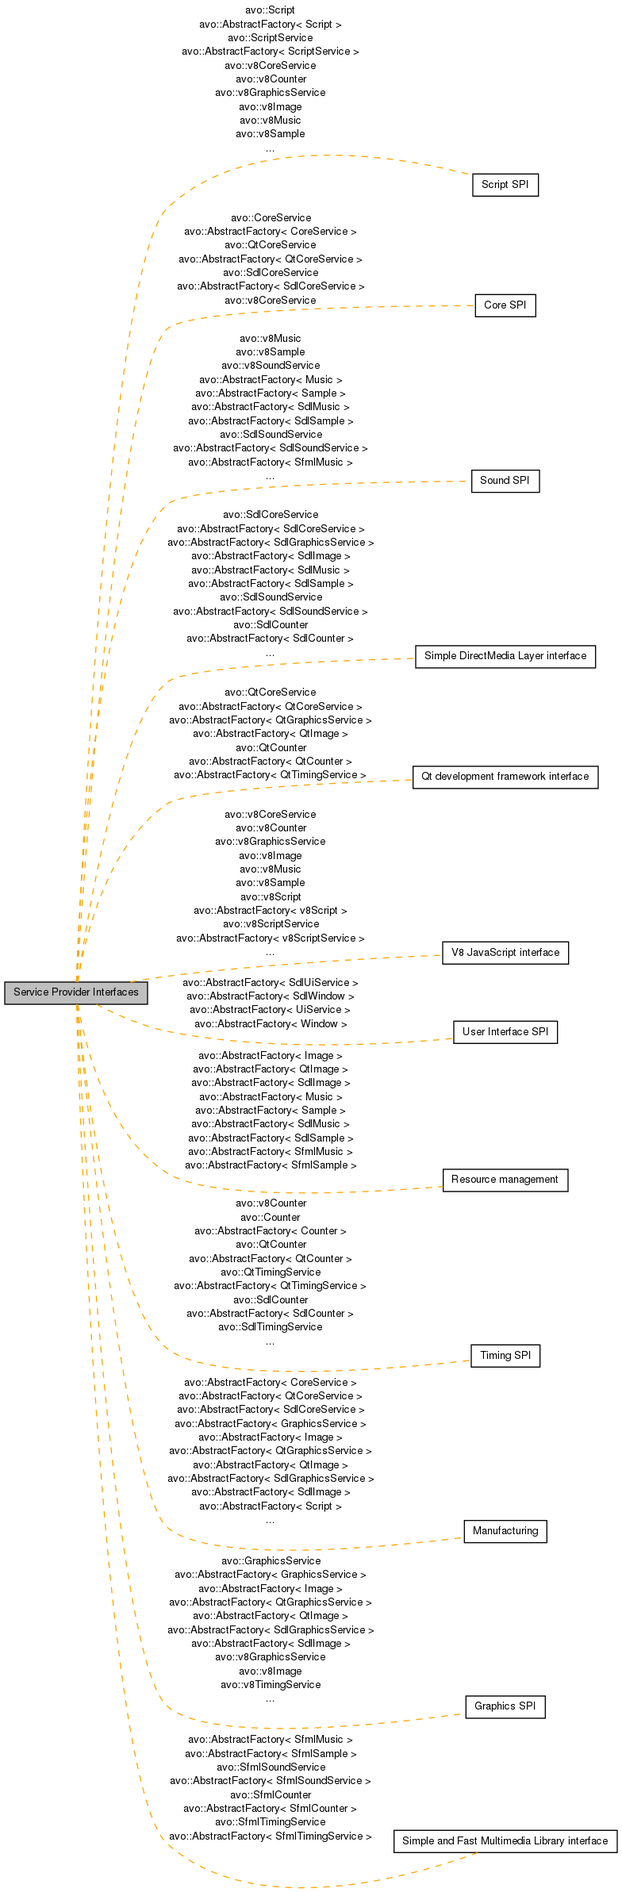
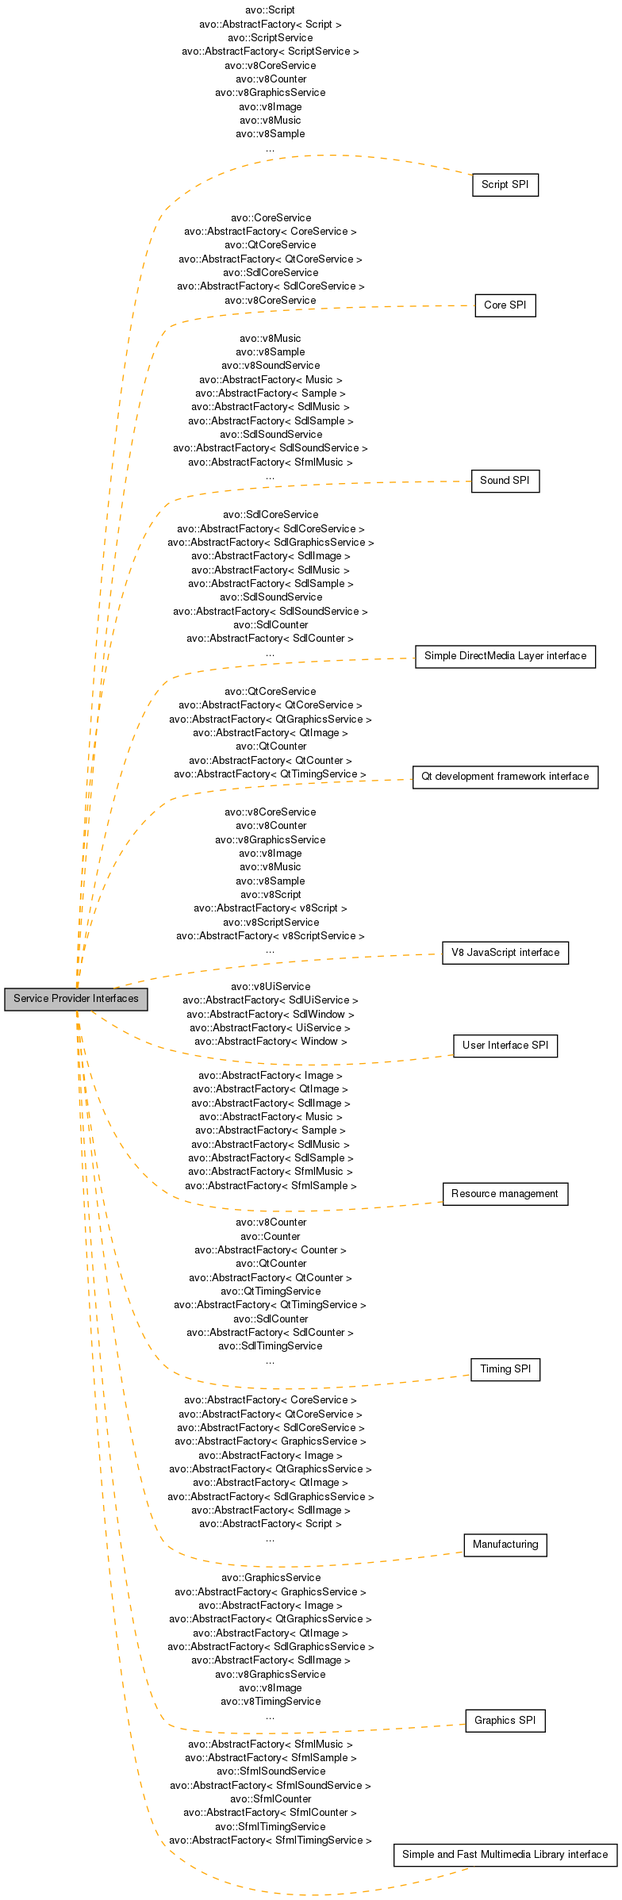
raw:03ca7a8fd6d0dd6b76e23c6d87380a5896ecc0d6

diff --git a/engine/core/State/Initial.coffee.html b/engine/core/State/Initial.coffee.html
@@ -33,21 +33,21 @@ as initialize requires. Elegant!</p>
 stuff. We'll wait so that there isn't a black screen sitting
 there while everything loads.
 Instantiate a Window to receive render events.</p>
-</td><td class="code"><div class="highlight"><pre>      <span class="nb">window</span> <span class="o">=</span> <span class="k">new</span> <span class="nx">avo</span><span class="p">.</span><span class="nx">uiService</span><span class="p">.</span><span class="nx">newWindow</span><span class="p">()</span>
-      <span class="nb">window</span><span class="p">.</span><span class="nx">set</span> <span class="p">[</span><span class="mi">320</span><span class="p">,</span> <span class="mi">240</span><span class="p">]</span>
-      <span class="nb">window</span><span class="p">.</span><span class="nx">setWindowTitle</span> <span class="s1">&#39;Avocado - Fun Should Be Free&#39;</span>
+</td><td class="code"><div class="highlight"><pre>      <span class="nv">avo.window = </span><span class="k">new</span> <span class="nx">avo</span><span class="p">.</span><span class="nx">uiService</span><span class="p">.</span><span class="nx">newWindow</span><span class="p">()</span>
+      <span class="nx">avo</span><span class="p">.</span><span class="nb">window</span><span class="p">.</span><span class="nx">set</span> <span class="p">[</span><span class="mi">320</span><span class="p">,</span> <span class="mi">240</span><span class="p">]</span>
+      <span class="nx">avo</span><span class="p">.</span><span class="nb">window</span><span class="p">.</span><span class="nx">setWindowTitle</span> <span class="s1">&#39;Avocado - Fun Should Be Free&#39;</span>
       </pre></div></td></tr><tr id="section-10"><td class="docs"><div class="pilwrap"><a href="#section-10" class="pilcrow">&#182;</a></div><p>avo.main lets us know when it has something to render, so we'll
 put it on our window.</p>
-</td><td class="code"><div class="highlight"><pre>      <span class="nx">avo</span><span class="p">.</span><span class="nx">main</span><span class="p">.</span><span class="kc">on</span> <span class="s1">&#39;render&#39;</span><span class="p">,</span> <span class="nf">(buffer) -&gt;</span> <span class="nb">window</span><span class="p">.</span><span class="nx">render</span> <span class="nx">buffer</span>
-      </pre></div></td></tr><tr id="section-11"><td class="docs"><div class="pilwrap"><a href="#section-11" class="pilcrow">&#182;</a></div><p>Catch the quit event from Input (window close event).</p>
-</td><td class="code"><div class="highlight"><pre>      <span class="nb">window</span><span class="p">.</span><span class="kc">on</span> <span class="s1">&#39;quit.Engine&#39;</span><span class="p">,</span> <span class="o">=&gt;</span> <span class="nx">avo</span><span class="p">.</span><span class="nx">main</span><span class="p">.</span><span class="nx">quit</span><span class="p">()</span>
+</td><td class="code"><div class="highlight"><pre>      <span class="nx">avo</span><span class="p">.</span><span class="nx">main</span><span class="p">.</span><span class="kc">on</span> <span class="s1">&#39;render&#39;</span><span class="p">,</span> <span class="nf">(buffer) -&gt;</span> <span class="nx">avo</span><span class="p">.</span><span class="nb">window</span><span class="p">.</span><span class="nx">render</span> <span class="nx">buffer</span>
+      </pre></div></td></tr><tr id="section-11"><td class="docs"><div class="pilwrap"><a href="#section-11" class="pilcrow">&#182;</a></div><p>Catch the quit event (window close event).</p>
+</td><td class="code"><div class="highlight"><pre>      <span class="nx">avo</span><span class="p">.</span><span class="nb">window</span><span class="p">.</span><span class="kc">on</span> <span class="s1">&#39;quit.Engine&#39;</span><span class="p">,</span> <span class="o">=&gt;</span> <span class="nx">avo</span><span class="p">.</span><span class="nx">main</span><span class="p">.</span><span class="nx">quit</span><span class="p">()</span>
       </pre></div></td></tr><tr id="section-12"><td class="docs"><div class="pilwrap"><a href="#section-12" class="pilcrow">&#182;</a></div><p>Allow dragging the avocado around with the left mouse button. Keep
 track of where the avocado was when we started dragging.</p>
 </td><td class="code"><div class="highlight"><pre>      <span class="vi">@dragStartAvocadoLocation = </span><span class="p">[]</span>
-      <span class="nb">window</span><span class="p">.</span><span class="kc">on</span> <span class="s1">&#39;mouseButtonDown.InitialState&#39;</span><span class="p">,</span> <span class="p">({</span><span class="nx">button</span><span class="p">})</span> <span class="o">=&gt;</span>
+      <span class="nx">avo</span><span class="p">.</span><span class="nb">window</span><span class="p">.</span><span class="kc">on</span> <span class="s1">&#39;mouseButtonDown.InitialState&#39;</span><span class="p">,</span> <span class="p">({</span><span class="nx">button</span><span class="p">})</span> <span class="o">=&gt;</span>
         <span class="k">return</span> <span class="nx">unless</span> <span class="nx">button</span> <span class="o">is</span> <span class="nx">avo</span><span class="p">.</span><span class="nx">Window</span><span class="p">.</span><span class="nx">LeftButton</span>
         <span class="vi">@dragStartAvocadoLocation = </span><span class="p">[</span><span class="nx">@x</span><span class="p">,</span> <span class="nx">@y</span><span class="p">]</span>
-      <span class="nb">window</span><span class="p">.</span><span class="kc">on</span> <span class="s1">&#39;mouseDrag.InitialState&#39;</span><span class="p">,</span> <span class="p">({</span><span class="nx">position</span><span class="p">,</span> <span class="nx">button</span><span class="p">,</span> <span class="nx">relative</span><span class="p">})</span> <span class="o">=&gt;</span>
+      <span class="nx">avo</span><span class="p">.</span><span class="nb">window</span><span class="p">.</span><span class="kc">on</span> <span class="s1">&#39;mouseDrag.InitialState&#39;</span><span class="p">,</span> <span class="p">({</span><span class="nx">position</span><span class="p">,</span> <span class="nx">button</span><span class="p">,</span> <span class="nx">relative</span><span class="p">})</span> <span class="o">=&gt;</span>
         <span class="k">return</span> <span class="nx">unless</span> <span class="nx">button</span> <span class="o">is</span> <span class="nx">avo</span><span class="p">.</span><span class="nx">Window</span><span class="p">.</span><span class="nx">LeftButton</span>
         <span class="p">[</span><span class="nx">@x</span><span class="p">,</span> <span class="nx">@y</span><span class="p">]</span> <span class="o">=</span> <span class="nx">avo</span><span class="p">.</span><span class="nx">Vector</span><span class="p">.</span><span class="nx">add</span> <span class="nx">@dragStartAvocadoLocation</span><span class="p">,</span> <span class="nx">relative</span>
         </pre></div></td></tr><tr id="section-13"><td class="docs"><div class="pilwrap"><a href="#section-13" class="pilcrow">&#182;</a></div><p>Called repeatedly while this state is loaded. You can do things like
@@ -68,7 +68,7 @@ your pretty pictures here!</p>
     </pre></div></td></tr><tr id="section-18"><td class="docs"><div class="pilwrap"><a href="#section-18" class="pilcrow">&#182;</a></div><p>Called when another state is loaded. This gives you a chance to clean
 up resources and event handlers.</p>
 </td><td class="code"><div class="highlight"><pre>  <span class="nv">leave: </span><span class="nf">(nextStateName) -&gt;</span>
-    </pre></div></td></tr><tr id="section-19"><td class="docs"><div class="pilwrap"><a href="#section-19" class="pilcrow">&#182;</a></div><p>Remove our user input event handler(s).</p>
-</td><td class="code"><div class="highlight"><pre>    <span class="nx">avo</span><span class="p">.</span><span class="nx">Input</span><span class="p">.</span><span class="kc">off</span> <span class="s1">&#39;.InitialState&#39;</span>
+    </pre></div></td></tr><tr id="section-19"><td class="docs"><div class="pilwrap"><a href="#section-19" class="pilcrow">&#182;</a></div><p>Remove our event handler(s).</p>
+</td><td class="code"><div class="highlight"><pre>    <span class="nx">avo</span><span class="p">.</span><span class="nb">window</span><span class="p">.</span><span class="kc">off</span> <span class="s1">&#39;.InitialState&#39;</span>
 
 </pre></div></td></tr></tbody></table><div id="projectname"><a href="../../../index.html">Avocado</a></div></div></body></html>

diff --git a/cpp/group__SPI.html b/cpp/group__SPI.html
@@ -90,7 +90,7 @@ Collaboration diagram for Service Provider Interfaces:</div>
 <div class="dyncontent">
 <center><table><tr><td><img src="group__SPI.png" border="0" alt="" usemap="#group____SPI"/>
 <map name="group____SPI" id="group____SPI">
-<area shape="rect" id="node1" href="group__Script.html" title="The script SPI handles all communication between the native C++ engine and JavaScript." alt="" coords="596,219,679,248"/><area shape="rect" id="node2" href="group__Core.html" title="The core SPI handles framework initialization (e.g. SDL_Init()) and teardown (e.g. SDL_Quit()) as well as bridges to core engine functionality like filesystem access." alt="" coords="600,371,675,400"/><area shape="rect" id="node3" href="group__Sound.html" title="The sound SPI handles sound system initialization, as well as music and sample loading and playing..." alt="" coords="595,592,680,621"/><area shape="rect" id="node4" href="group__SDL.html" title="Avocado&#39;s interface to the [Simple DirectMedia Layer](http://www.libsdl.org/)." alt="" coords="524,813,751,843"/><area shape="rect" id="node5" href="group__Qt.html" title="Avocado&#39;s interface to the [Qt development framework](http://qt.digia.com/)." alt="" coords="521,965,753,995"/><area shape="rect" id="node7" href="group__V8.html" title="Avocado&#39;s interface to the [V8 JavaScript engine](http://code.google.com/p/v8/)." alt="" coords="559,1187,716,1216"/><area shape="rect" id="node8" href="group__Ui.html" title="The UI SPI handles user interface functionality such as windows and user input polling." alt="" coords="572,1287,703,1316"/><area shape="rect" id="node9" href="group__Resources.html" title="Resources are loaded from the resource root and are managed using reference counting." alt="" coords="559,1473,716,1503"/><area shape="rect" id="node10" href="group__Timing.html" title="The timing SPI handles measuring time." alt="" coords="595,1695,680,1724"/><area shape="rect" id="node11" href="group__Manufacturing.html" title="Manufacturing functionality handles abstract factory &#160;definition and managing concrete factory instan..." alt="" coords="585,1916,689,1945"/><area shape="rect" id="node12" href="group__Graphics.html" title="The graphics SPI handles window and graphics system initialization, and rendering." alt="" coords="588,2137,687,2167"/><area shape="rect" id="node13" href="group__SFML.html" title="Avocado&#39;s interface to the [Simple and Fast Multimedia Library](http://www.sfml&#45;dev.org)." alt="" coords="497,2307,777,2336"/></map>
+<area shape="rect" id="node1" href="group__Script.html" title="The script SPI handles all communication between the native C++ engine and JavaScript." alt="" coords="596,219,679,248"/><area shape="rect" id="node2" href="group__Core.html" title="The core SPI handles framework initialization (e.g. SDL_Init()) and teardown (e.g. SDL_Quit()) as well as bridges to core engine functionality like filesystem access." alt="" coords="600,371,675,400"/><area shape="rect" id="node3" href="group__Sound.html" title="The sound SPI handles sound system initialization, as well as music and sample loading and playing..." alt="" coords="595,592,680,621"/><area shape="rect" id="node4" href="group__SDL.html" title="Avocado&#39;s interface to the [Simple DirectMedia Layer](http://www.libsdl.org/)." alt="" coords="524,813,751,843"/><area shape="rect" id="node5" href="group__Qt.html" title="Avocado&#39;s interface to the [Qt development framework](http://qt.digia.com/)." alt="" coords="521,965,753,995"/><area shape="rect" id="node7" href="group__V8.html" title="Avocado&#39;s interface to the [V8 JavaScript engine](http://code.google.com/p/v8/)." alt="" coords="559,1187,716,1216"/><area shape="rect" id="node8" href="group__Ui.html" title="The UI SPI handles user interface functionality such as windows and user event polling." alt="" coords="572,1304,703,1333"/><area shape="rect" id="node9" href="group__Resources.html" title="Resources are loaded from the resource root and are managed using reference counting." alt="" coords="559,1491,716,1520"/><area shape="rect" id="node10" href="group__Timing.html" title="The timing SPI handles measuring time." alt="" coords="595,1712,680,1741"/><area shape="rect" id="node11" href="group__Manufacturing.html" title="Manufacturing functionality handles abstract factory &#160;definition and managing concrete factory instan..." alt="" coords="585,1933,689,1963"/><area shape="rect" id="node12" href="group__Graphics.html" title="The graphics SPI handles window and graphics system initialization, and rendering." alt="" coords="588,2155,687,2184"/><area shape="rect" id="node13" href="group__SFML.html" title="Avocado&#39;s interface to the [Simple and Fast Multimedia Library](http://www.sfml&#45;dev.org)." alt="" coords="497,2324,777,2353"/></map>
 </td></tr></table></center>
 </div>
 <table class="memberdecls">

diff --git a/cpp/group__Manufacturing.html b/cpp/group__Manufacturing.html
@@ -89,7 +89,7 @@ Collaboration diagram for Manufacturing:</div>
 <div class="dyncontent">
 <center><table><tr><td><img src="group__Manufacturing.png" border="0" alt="" usemap="#group____Manufacturing"/>
 <map name="group____Manufacturing" id="group____Manufacturing">
-<area shape="rect" id="node1" href="group__Script.html" title="The script SPI handles all communication between the native C++ engine and JavaScript." alt="" coords="519,97,601,127"/><area shape="rect" id="node2" href="group__Core.html" title="The core SPI handles framework initialization (e.g. SDL_Init()) and teardown (e.g. SDL_Quit()) as well as bridges to core engine functionality like filesystem access." alt="" coords="523,180,597,209"/><area shape="rect" id="node3" href="group__Sound.html" title="The sound SPI handles sound system initialization, as well as music and sample loading and playing..." alt="" coords="517,367,603,396"/><area shape="rect" id="node4" href="group__SDL.html" title="Avocado&#39;s interface to the [Simple DirectMedia Layer](http://www.libsdl.org/)." alt="" coords="447,588,673,617"/><area shape="rect" id="node5" href="group__Qt.html" title="Avocado&#39;s interface to the [Qt development framework](http://qt.digia.com/)." alt="" coords="444,705,676,735"/><area shape="rect" id="node6" href="group__SPI.html" title="Simply put, SPI implementations (SPIIs) provide an way for the engine to do interesting and dynamic t..." alt="" coords="471,927,649,956"/><area shape="rect" id="node7" href="group__V8.html" title="Avocado&#39;s interface to the [V8 JavaScript engine](http://code.google.com/p/v8/)." alt="" coords="481,992,639,1021"/><area shape="rect" id="node8" href="group__Ui.html" title="The UI SPI handles user interface functionality such as windows and user input polling." alt="" coords="495,1092,625,1121"/><area shape="rect" id="node9" href="group__Resources.html" title="Resources are loaded from the resource root and are managed using reference counting." alt="" coords="481,1279,639,1308"/><area shape="rect" id="node10" href="group__Timing.html" title="The timing SPI handles measuring time." alt="" coords="517,1448,603,1477"/><area shape="rect" id="node12" href="group__Graphics.html" title="The graphics SPI handles window and graphics system initialization, and rendering." alt="" coords="511,1583,609,1612"/><area shape="rect" id="node13" href="group__SFML.html" title="Avocado&#39;s interface to the [Simple and Fast Multimedia Library](http://www.sfml&#45;dev.org)." alt="" coords="420,1700,700,1729"/></map>
+<area shape="rect" id="node1" href="group__Script.html" title="The script SPI handles all communication between the native C++ engine and JavaScript." alt="" coords="519,97,601,127"/><area shape="rect" id="node2" href="group__Core.html" title="The core SPI handles framework initialization (e.g. SDL_Init()) and teardown (e.g. SDL_Quit()) as well as bridges to core engine functionality like filesystem access." alt="" coords="523,180,597,209"/><area shape="rect" id="node3" href="group__Sound.html" title="The sound SPI handles sound system initialization, as well as music and sample loading and playing..." alt="" coords="517,367,603,396"/><area shape="rect" id="node4" href="group__SDL.html" title="Avocado&#39;s interface to the [Simple DirectMedia Layer](http://www.libsdl.org/)." alt="" coords="447,588,673,617"/><area shape="rect" id="node5" href="group__Qt.html" title="Avocado&#39;s interface to the [Qt development framework](http://qt.digia.com/)." alt="" coords="444,705,676,735"/><area shape="rect" id="node6" href="group__SPI.html" title="Simply put, SPI implementations (SPIIs) provide an way for the engine to do interesting and dynamic t..." alt="" coords="471,927,649,956"/><area shape="rect" id="node7" href="group__V8.html" title="Avocado&#39;s interface to the [V8 JavaScript engine](http://code.google.com/p/v8/)." alt="" coords="481,992,639,1021"/><area shape="rect" id="node8" href="group__Ui.html" title="The UI SPI handles user interface functionality such as windows and user event polling." alt="" coords="495,1092,625,1121"/><area shape="rect" id="node9" href="group__Resources.html" title="Resources are loaded from the resource root and are managed using reference counting." alt="" coords="481,1279,639,1308"/><area shape="rect" id="node10" href="group__Timing.html" title="The timing SPI handles measuring time." alt="" coords="517,1448,603,1477"/><area shape="rect" id="node12" href="group__Graphics.html" title="The graphics SPI handles window and graphics system initialization, and rendering." alt="" coords="511,1583,609,1612"/><area shape="rect" id="node13" href="group__SFML.html" title="Avocado&#39;s interface to the [Simple and Fast Multimedia Library](http://www.sfml&#45;dev.org)." alt="" coords="420,1700,700,1729"/></map>
 </td></tr></table></center>
 </div>
 <table class="memberdecls">

diff --git a/cpp/group__Ui.html b/cpp/group__Ui.html
@@ -82,19 +82,20 @@ var searchBox = new SearchBox("searchBox", "search",false,'Search');
 </div><!--header-->
 <div class="contents">
 
-<p>The UI SPI handles user interface functionality such as windows and user input polling.  
+<p>The UI SPI handles user interface functionality such as windows and user event polling.  
 <a href="#details">More...</a></p>
 <div class="dynheader">
 Collaboration diagram for User Interface SPI:</div>
 <div class="dyncontent">
 <center><table><tr><td><img src="group__Ui.png" border="0" alt="" usemap="#group____Ui"/>
 <map name="group____Ui" id="group____Ui">
-<area shape="rect" id="node1" href="group__SDL.html" title="Avocado&#39;s interface to the [Simple DirectMedia Layer](http://www.libsdl.org/)." alt="" coords="408,67,635,96"/><area shape="rect" id="node2" href="group__SPI.html" title="Simply put, SPI implementations (SPIIs) provide an way for the engine to do interesting and dynamic t..." alt="" coords="432,167,611,196"/><area shape="rect" id="node4" href="group__Manufacturing.html" title="Manufacturing functionality handles abstract factory &#160;definition and managing concrete factory instan..." alt="" coords="469,267,573,296"/></map>
+<area shape="rect" id="node1" href="group__Script.html" title="The script SPI handles all communication between the native C++ engine and JavaScript." alt="" coords="480,28,563,57"/><area shape="rect" id="node2" href="group__SDL.html" title="Avocado&#39;s interface to the [Simple DirectMedia Layer](http://www.libsdl.org/)." alt="" coords="408,128,635,157"/><area shape="rect" id="node3" href="group__SPI.html" title="Simply put, SPI implementations (SPIIs) provide an way for the engine to do interesting and dynamic t..." alt="" coords="432,244,611,273"/><area shape="rect" id="node4" href="group__V8.html" title="Avocado&#39;s interface to the [V8 JavaScript engine](http://code.google.com/p/v8/)." alt="" coords="443,297,600,327"/><area shape="rect" id="node6" href="group__Manufacturing.html" title="Manufacturing functionality handles abstract factory &#160;definition and managing concrete factory instan..." alt="" coords="469,396,573,425"/></map>
 </td></tr></table></center>
 </div>
 <table class="memberdecls">
 <tr><td colspan="2"><h2><a name="nested-classes"></a>
 Classes</h2></td></tr>
+<tr><td class="memItemLeft" align="right" valign="top">class &#160;</td><td class="memItemRight" valign="bottom"><a class="el" href="classavo_1_1v8UiService.html">avo::v8UiService</a></td></tr>
 <tr><td class="memItemLeft" align="right" valign="top">class &#160;</td><td class="memItemRight" valign="bottom"><a class="el" href="classavo_1_1SdlUiService.html">avo::SdlUiService</a></td></tr>
 <tr><td class="memItemLeft" align="right" valign="top">class &#160;</td><td class="memItemRight" valign="bottom"><a class="el" href="classavo_1_1AbstractFactory_3_01SdlUiService_01_4.html">avo::AbstractFactory&lt; SdlUiService &gt;</a></td></tr>
 <tr><td class="memItemLeft" align="right" valign="top">class &#160;</td><td class="memItemRight" valign="bottom"><a class="el" href="classavo_1_1SdlWindow.html">avo::SdlWindow</a></td></tr>
@@ -105,7 +106,7 @@ Classes</h2></td></tr>
 <tr><td class="memItemLeft" align="right" valign="top">class &#160;</td><td class="memItemRight" valign="bottom"><a class="el" href="classavo_1_1AbstractFactory_3_01Window_01_4.html">avo::AbstractFactory&lt; Window &gt;</a></td></tr>
 </table>
 <hr/><a name="details" id="details"></a><h2>Detailed Description</h2>
-<p>The UI SPI handles user interface functionality such as windows and user input polling. </p>
+<p>The UI SPI handles user interface functionality such as windows and user event polling. </p>
 </div><!-- contents -->
 <!-- window showing the filter options -->
 <div id="MSearchSelectWindow"

diff --git a/cpp/group__SDL.html b/cpp/group__SDL.html
@@ -89,7 +89,7 @@ Collaboration diagram for Simple DirectMedia Layer interface:</div>
 <div class="dyncontent">
 <center><table><tr><td><img src="group__SDL.png" border="0" alt="" usemap="#group____SDL"/>
 <map name="group____SDL" id="group____SDL">
-<area shape="rect" id="node1" href="group__Core.html" title="The core SPI handles framework initialization (e.g. SDL_Init()) and teardown (e.g. SDL_Quit()) as well as bridges to core engine functionality like filesystem access." alt="" coords="595,52,669,81"/><area shape="rect" id="node2" href="group__Sound.html" title="The sound SPI handles sound system initialization, as well as music and sample loading and playing..." alt="" coords="589,187,675,216"/><area shape="rect" id="node4" href="group__SPI.html" title="Simply put, SPI implementations (SPIIs) provide an way for the engine to do interesting and dynamic t..." alt="" coords="543,408,721,437"/><area shape="rect" id="node5" href="group__Ui.html" title="The UI SPI handles user interface functionality such as windows and user input polling." alt="" coords="567,508,697,537"/><area shape="rect" id="node6" href="group__Resources.html" title="Resources are loaded from the resource root and are managed using reference counting." alt="" coords="553,643,711,672"/><area shape="rect" id="node7" href="group__Timing.html" title="The timing SPI handles measuring time." alt="" coords="589,743,675,772"/><area shape="rect" id="node8" href="group__Manufacturing.html" title="Manufacturing functionality handles abstract factory &#160;definition and managing concrete factory instan..." alt="" coords="580,964,684,993"/><area shape="rect" id="node9" href="group__Graphics.html" title="The graphics SPI handles window and graphics system initialization, and rendering." alt="" coords="583,1064,681,1093"/></map>
+<area shape="rect" id="node1" href="group__Core.html" title="The core SPI handles framework initialization (e.g. SDL_Init()) and teardown (e.g. SDL_Quit()) as well as bridges to core engine functionality like filesystem access." alt="" coords="595,52,669,81"/><area shape="rect" id="node2" href="group__Sound.html" title="The sound SPI handles sound system initialization, as well as music and sample loading and playing..." alt="" coords="589,187,675,216"/><area shape="rect" id="node4" href="group__SPI.html" title="Simply put, SPI implementations (SPIIs) provide an way for the engine to do interesting and dynamic t..." alt="" coords="543,408,721,437"/><area shape="rect" id="node5" href="group__Ui.html" title="The UI SPI handles user interface functionality such as windows and user event polling." alt="" coords="567,508,697,537"/><area shape="rect" id="node6" href="group__Resources.html" title="Resources are loaded from the resource root and are managed using reference counting." alt="" coords="553,643,711,672"/><area shape="rect" id="node7" href="group__Timing.html" title="The timing SPI handles measuring time." alt="" coords="589,743,675,772"/><area shape="rect" id="node8" href="group__Manufacturing.html" title="Manufacturing functionality handles abstract factory &#160;definition and managing concrete factory instan..." alt="" coords="580,964,684,993"/><area shape="rect" id="node9" href="group__Graphics.html" title="The graphics SPI handles window and graphics system initialization, and rendering." alt="" coords="583,1064,681,1093"/></map>
 </td></tr></table></center>
 </div>
 <table class="memberdecls">

diff --git a/cpp/group__V8.html b/cpp/group__V8.html
@@ -90,7 +90,7 @@ Collaboration diagram for V8 JavaScript interface:</div>
 <div class="dyncontent">
 <center><table><tr><td><img src="group__V8.png" border="0" alt="" usemap="#group____V8"/>
 <map name="group____V8" id="group____V8">
-<area shape="rect" id="node1" href="group__Script.html" title="The script SPI handles all communication between the native C++ engine and JavaScript." alt="" coords="503,215,585,244"/><area shape="rect" id="node2" href="group__Core.html" title="The core SPI handles framework initialization (e.g. SDL_Init()) and teardown (e.g. SDL_Quit()) as well as bridges to core engine functionality like filesystem access." alt="" coords="507,289,581,319"/><area shape="rect" id="node3" href="group__Sound.html" title="The sound SPI handles sound system initialization, as well as music and sample loading and playing..." alt="" coords="501,372,587,401"/><area shape="rect" id="node4" href="group__SPI.html" title="Simply put, SPI implementations (SPIIs) provide an way for the engine to do interesting and dynamic t..." alt="" coords="455,591,633,620"/><area shape="rect" id="node6" href="group__Timing.html" title="The timing SPI handles measuring time." alt="" coords="501,644,587,673"/><area shape="rect" id="node7" href="group__Manufacturing.html" title="Manufacturing functionality handles abstract factory &#160;definition and managing concrete factory instan..." alt="" coords="492,707,596,736"/><area shape="rect" id="node8" href="group__Graphics.html" title="The graphics SPI handles window and graphics system initialization, and rendering." alt="" coords="495,807,593,836"/></map>
+<area shape="rect" id="node1" href="group__Script.html" title="The script SPI handles all communication between the native C++ engine and JavaScript." alt="" coords="503,217,585,247"/><area shape="rect" id="node2" href="group__Core.html" title="The core SPI handles framework initialization (e.g. SDL_Init()) and teardown (e.g. SDL_Quit()) as well as bridges to core engine functionality like filesystem access." alt="" coords="507,292,581,321"/><area shape="rect" id="node3" href="group__Sound.html" title="The sound SPI handles sound system initialization, as well as music and sample loading and playing..." alt="" coords="501,375,587,404"/><area shape="rect" id="node4" href="group__SPI.html" title="Simply put, SPI implementations (SPIIs) provide an way for the engine to do interesting and dynamic t..." alt="" coords="455,591,633,620"/><area shape="rect" id="node6" href="group__Ui.html" title="The UI SPI handles user interface functionality such as windows and user event polling." alt="" coords="479,644,609,673"/><area shape="rect" id="node7" href="group__Timing.html" title="The timing SPI handles measuring time." alt="" coords="501,697,587,727"/><area shape="rect" id="node8" href="group__Manufacturing.html" title="Manufacturing functionality handles abstract factory &#160;definition and managing concrete factory instan..." alt="" coords="492,757,596,787"/><area shape="rect" id="node9" href="group__Graphics.html" title="The graphics SPI handles window and graphics system initialization, and rendering." alt="" coords="495,857,593,887"/></map>
 </td></tr></table></center>
 </div>
 <table class="memberdecls">

diff --git a/cpp/group__Script.html b/cpp/group__Script.html
@@ -92,7 +92,7 @@ Collaboration diagram for Script SPI:</div>
 <div class="dyncontent">
 <center><table><tr><td><img src="group__Script.png" border="0" alt="" usemap="#group____Script"/>
 <map name="group____Script" id="group____Script">
-<area shape="rect" id="node2" href="group__Core.html" title="The core SPI handles framework initialization (e.g. SDL_Init()) and teardown (e.g. SDL_Quit()) as well as bridges to core engine functionality like filesystem access." alt="" coords="429,36,504,65"/><area shape="rect" id="node3" href="group__Sound.html" title="The sound SPI handles sound system initialization, as well as music and sample loading and playing..." alt="" coords="424,119,509,148"/><area shape="rect" id="node4" href="group__SPI.html" title="Simply put, SPI implementations (SPIIs) provide an way for the engine to do interesting and dynamic t..." alt="" coords="377,340,556,369"/><area shape="rect" id="node5" href="group__V8.html" title="Avocado&#39;s interface to the [V8 JavaScript engine](http://code.google.com/p/v8/)." alt="" coords="388,583,545,612"/><area shape="rect" id="node6" href="group__Timing.html" title="The timing SPI handles measuring time." alt="" coords="424,657,509,687"/><area shape="rect" id="node7" href="group__Manufacturing.html" title="Manufacturing functionality handles abstract factory &#160;definition and managing concrete factory instan..." alt="" coords="415,757,519,787"/><area shape="rect" id="node8" href="group__Graphics.html" title="The graphics SPI handles window and graphics system initialization, and rendering." alt="" coords="417,857,516,887"/></map>
+<area shape="rect" id="node2" href="group__Core.html" title="The core SPI handles framework initialization (e.g. SDL_Init()) and teardown (e.g. SDL_Quit()) as well as bridges to core engine functionality like filesystem access." alt="" coords="429,36,504,65"/><area shape="rect" id="node3" href="group__Sound.html" title="The sound SPI handles sound system initialization, as well as music and sample loading and playing..." alt="" coords="424,119,509,148"/><area shape="rect" id="node4" href="group__SPI.html" title="Simply put, SPI implementations (SPIIs) provide an way for the engine to do interesting and dynamic t..." alt="" coords="377,340,556,369"/><area shape="rect" id="node5" href="group__V8.html" title="Avocado&#39;s interface to the [V8 JavaScript engine](http://code.google.com/p/v8/)." alt="" coords="388,583,545,612"/><area shape="rect" id="node6" href="group__Ui.html" title="The UI SPI handles user interface functionality such as windows and user event polling." alt="" coords="401,655,532,684"/><area shape="rect" id="node7" href="group__Timing.html" title="The timing SPI handles measuring time." alt="" coords="424,708,509,737"/><area shape="rect" id="node8" href="group__Manufacturing.html" title="Manufacturing functionality handles abstract factory &#160;definition and managing concrete factory instan..." alt="" coords="415,805,519,835"/><area shape="rect" id="node9" href="group__Graphics.html" title="The graphics SPI handles window and graphics system initialization, and rendering." alt="" coords="417,905,516,935"/></map>
 </td></tr></table></center>
 </div>
 <table class="memberdecls">

diff --git a/cpp/classavo_1_1UiService.html b/cpp/classavo_1_1UiService.html
@@ -141,7 +141,7 @@ Static Public Attributes</h2></td></tr>
 <tr><td class="memItemLeft" align="right" valign="top">static <a class="el" href="classavo_1_1FactoryManager.html">FactoryManager</a>&lt; <a class="el" href="classavo_1_1UiService.html">UiService</a> &gt;&#160;</td><td class="memItemRight" valign="bottom"><a class="el" href="classavo_1_1UiService.html#a05322a4981ba7c32bec19bcd25f6ac47">factoryManager</a></td></tr>
 </table>
 <hr/><a name="details" id="details"></a><h2>Detailed Description</h2>
-<div class="textblock"><p>The UiService SPI handles input framework initialization as well as the SPII for Input. </p>
+<div class="textblock"><p>The UiService SPI handles UI framework initialization as well as the SPII for <a class="el" href="classavo_1_1Window.html">Window</a>. </p>
 </div><hr/><h2>Constructor &amp; Destructor Documentation</h2>
 <a class="anchor" id="aea6fa0d71d4f1142d06a4f44e685007b"></a><!-- doxytag: member="avo::UiService::UiService" ref="aea6fa0d71d4f1142d06a4f44e685007b" args="()" -->
 <div class="memitem">

diff --git a/cpp/classavo_1_1v8UiService.html b/cpp/classavo_1_1v8UiService.html
@@ -108,7 +108,7 @@ var searchBox = new SearchBox("searchBox", "search",false,'Search');
 <a href="#pub-static-methods">Static Public Member Functions</a> &#124;
 <a href="#pub-attribs">Public Attributes</a>  </div>
   <div class="headertitle">
-<div class="title">avo::v8UiService Class Reference<div class="ingroups"><a class="el" href="group__Script.html">Script SPI</a> &#124; <a class="el" href="group__SPI.html">Service Provider Interfaces</a> &#124; <a class="el" href="group__V8.html">V8 JavaScript interface</a></div></div>  </div>
+<div class="title">avo::v8UiService Class Reference<div class="ingroups"><a class="el" href="group__Script.html">Script SPI</a> &#124; <a class="el" href="group__SPI.html">Service Provider Interfaces</a> &#124; <a class="el" href="group__Ui.html">User Interface SPI</a> &#124; <a class="el" href="group__V8.html">V8 JavaScript interface</a></div></div>  </div>
 </div><!--header-->
 <div class="contents">
 <!-- doxytag: class="avo::v8UiService" --><!-- doxytag: inherits="avo::ObjectWrap" -->

diff --git a/cpp/structavo_1_1Window_1_1Event.html b/cpp/structavo_1_1Window_1_1Event.html
@@ -159,7 +159,7 @@ Public Attributes</h2></td></tr>
 <tr><td class="memItemLeft" align="right" valign="top">bool&#160;</td><td class="memItemRight" valign="bottom"><a class="el" href="structavo_1_1Window_1_1Event.html#a9872c1e77f57c2534effbde7117af7e6">quit</a></td></tr>
 </table>
 <hr/><a name="details" id="details"></a><h2>Detailed Description</h2>
-<div class="textblock"><p>Input polling results. </p>
+<div class="textblock"><p><a class="el" href="structavo_1_1Window_1_1Event.html">Event</a> polling. </p>
 </div><hr/><h2>Member Enumeration Documentation</h2>
 <a class="anchor" id="a2ab3e2e26bbd4429dbfba516bed1d0d7"></a><!-- doxytag: member="avo::Window::Event::MouseButtons" ref="a2ab3e2e26bbd4429dbfba516bed1d0d7" args="" -->
 <div class="memitem">

diff --git a/index.html b/index.html
@@ -128,7 +128,7 @@
     </dd>
 </dl>
 <h3>Version</h3><p>1.0.0</p><h3>Author</h3><p><span class="gravatar"><img src="http://www.gravatar.com/avatar/4e26f0fdc3f2c07b8abf1c9bd95c23fb"/><span>cha0s &lt;cha0s@therealcha0s.net&gt;</span></span></p><h3>Dependencies </h3><ul></ul><p><h3>Stats</h3><pre class="code_stats">
-http://cloc.sourceforge.net v 1.55  T=0.5 s (48.0 files/s, 4432.0 lines/s)
+http://cloc.sourceforge.net v 1.55  T=1.0 s (24.0 files/s, 2216.0 lines/s)
 -------------------------------------------------------------------------------
 Language                     files          blank        comment           code
 -------------------------------------------------------------------------------
